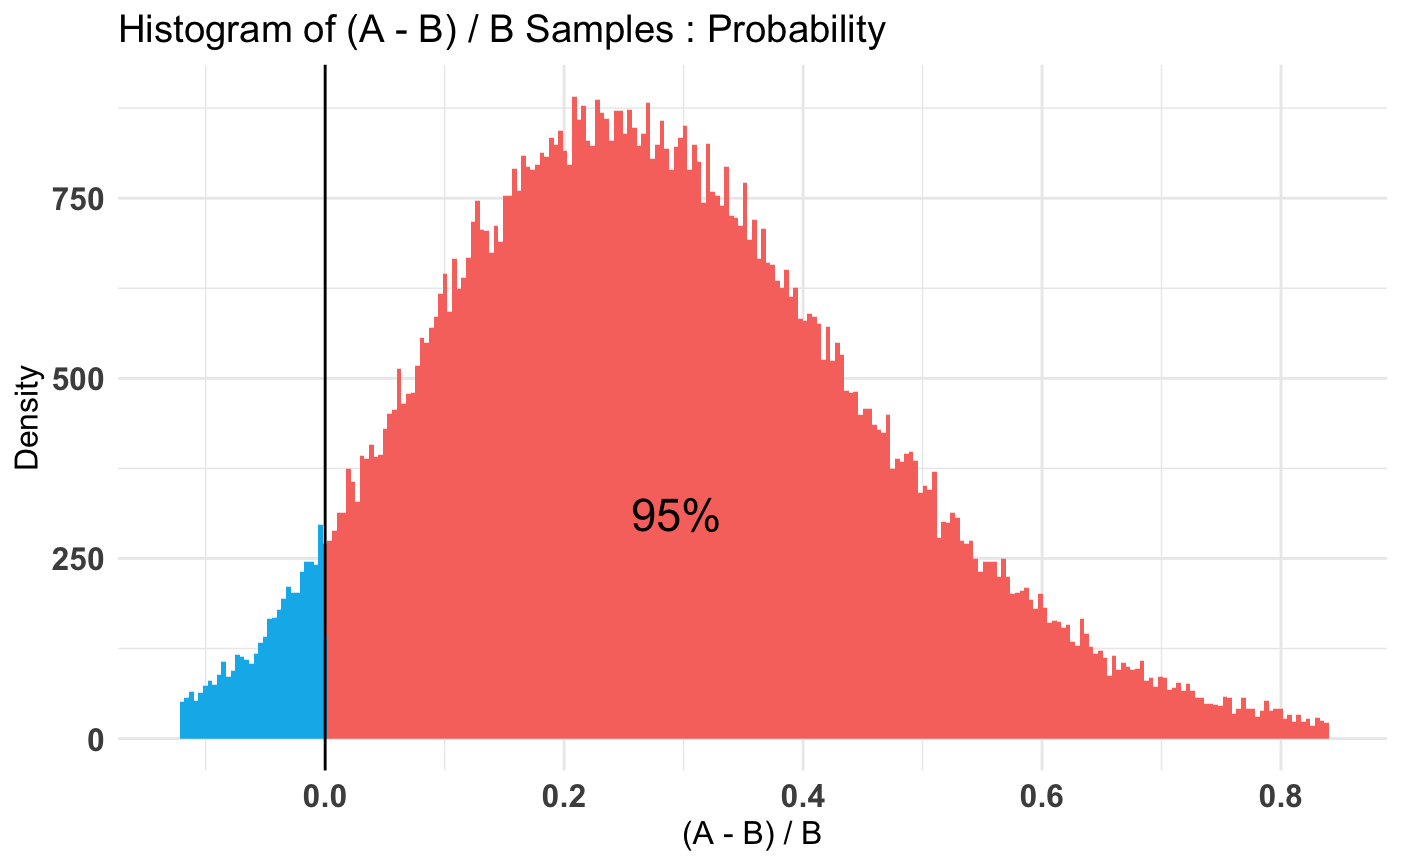
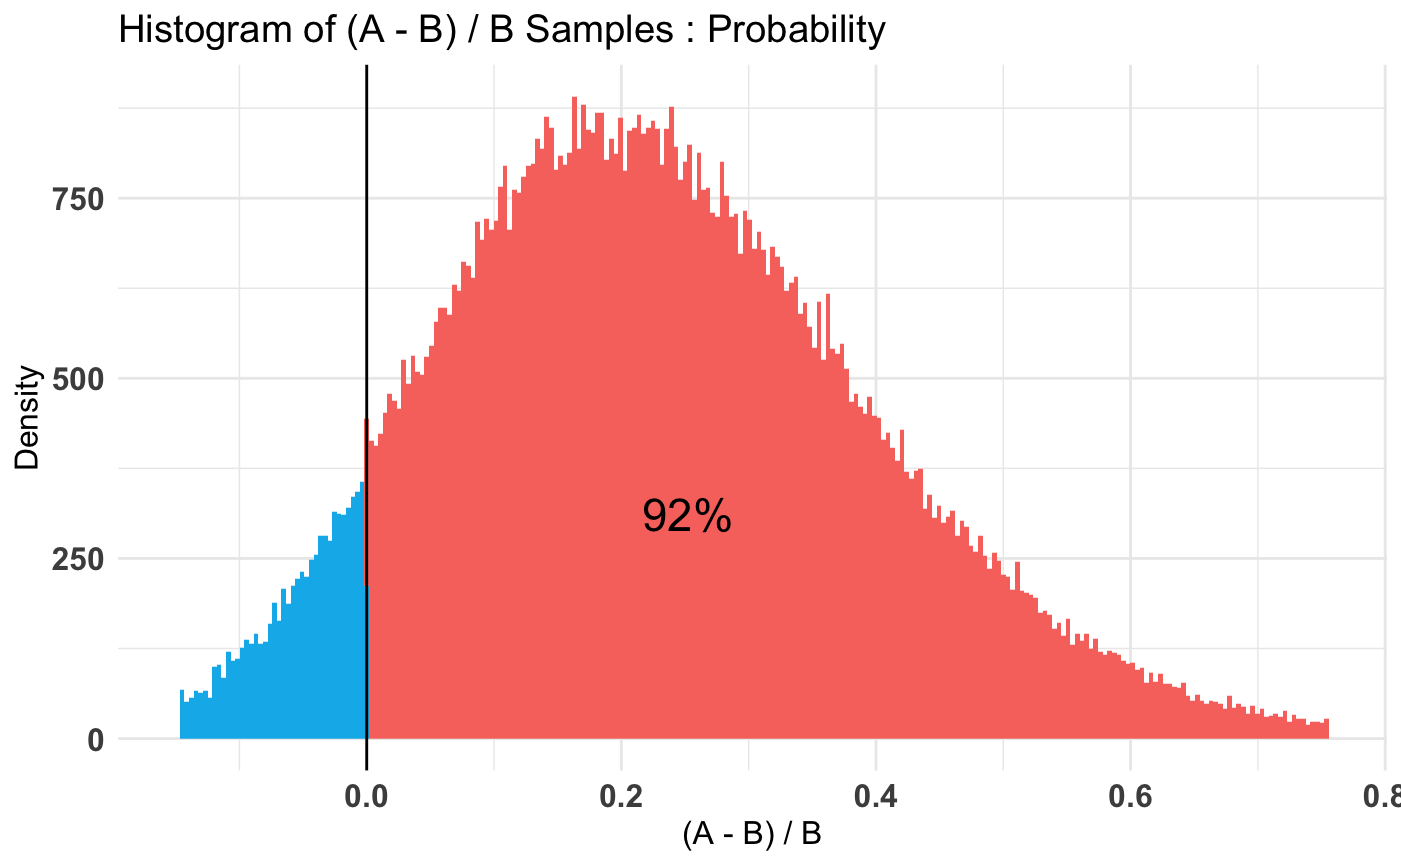
Site

diff --git a/docs/articles/introduction.html b/docs/articles/introduction.html
@@ -134,13 +134,13 @@
 ## Distribution used: bernoulli 
 ## --------------------------------------------
 ## Using data with the following properties: 
-##             A    B
-## Min.    0.000 0.00
-## 1st Qu. 0.000 0.00
-## Median  0.000 0.00
-## Mean    0.256 0.18
-## 3rd Qu. 1.000 0.00
-## Max.    1.000 1.00
+##             A     B
+## Min.    0.000 0.000
+## 1st Qu. 0.000 0.000
+## Median  0.000 0.000
+## Mean    0.264 0.248
+## 3rd Qu. 1.000 0.000
+## Max.    1.000 1.000
 ## --------------------------------------------
 ## Conjugate Prior Distribution: Beta 
 ## Conjugate Prior Parameters: 
@@ -162,11 +162,11 @@
 ## $Probability
 ## $Probability$A
 ##        0%       25%       50%       75%      100% 
-## 0.1759566 0.2373865 0.2501217 0.2630968 0.3531991 
+## 0.1800473 0.2412950 0.2540387 0.2670910 0.3409753 
 ## 
 ## $Probability$B
 ##        0%       25%       50%       75%      100% 
-## 0.1444721 0.2012199 0.2132452 0.2254698 0.3012037 
+## 0.1767633 0.2336161 0.2463689 0.2593703 0.3327495 
 ## 
 ## 
 ## --------------------------------------------
@@ -174,22 +174,22 @@
 ## P(A &gt; B) by (0)%: 
 ## 
 ## $Probability
-## [1] 0.9202
+## [1] 0.61298
 ## 
 ## --------------------------------------------
 ## 
 ## Credible Interval on (A - B) / B for interval length(s) (0.9) : 
 ## 
 ## $Probability
-##          5%         95% 
-## -0.02695294  0.41732241 
+##         5%        95% 
+## -0.1360307  0.2335515 
 ## 
 ## --------------------------------------------
 ## 
 ## Posterior Expected Loss for choosing B over A:
 ## 
 ## $Probability
-## [1] 0.004306333</code></pre>
+## [1] 0.03114722</code></pre>
 <div class="sourceCode" id="cb9"><pre class="sourceCode r"><code class="sourceCode r"><a class="sourceLine" id="cb9-1" data-line-number="1"><span class="kw"><a href="https://www.rdocumentation.org/packages/graphics/topics/plot">plot</a></span>(AB1)</a></code></pre></div>
 <p><img src="introduction_files/figure-html/unnamed-chunk-4-1.png" width="700.8"><img src="introduction_files/figure-html/unnamed-chunk-4-2.png" width="700.8"><img src="introduction_files/figure-html/unnamed-chunk-4-3.png" width="700.8"></p>
 <p><code>print</code> talks about the inputs to the test, <code>summary</code> will do a P((A - B) / B &gt; percentLift) and credible interval on (A - B) / B calculation, and <code>plot</code> will plot the priors, posteriors, and the Monte Carlo ‘integrated’ samples.</p>
@@ -212,12 +212,12 @@
 ## --------------------------------------------
 ## Using data with the following properties: 
 ##              A      B
-## Min.     0.000  0.000
-## 1st Qu.  5.000  4.000
-## Median   6.000  6.000
-## Mean     6.608  5.612
+## Min.     1.000  1.000
+## 1st Qu.  4.000  4.000
+## Median   6.000  5.000
+## Mean     6.296  5.592
 ## 3rd Qu.  8.000  7.000
-## Max.    15.000 12.000
+## Max.    14.000 14.000
 ## --------------------------------------------
 ## Conjugate Prior Distribution: Gamma 
 ## Conjugate Prior Parameters: 
@@ -239,11 +239,11 @@
 ## $Lambda
 ## $Lambda$A
 ##       0%      25%      50%      75%     100% 
-## 5.961310 6.486886 6.593909 6.702575 7.285747 
+## 5.617590 6.183904 6.289262 6.395405 7.006690 
 ## 
 ## $Lambda$B
 ##       0%      25%      50%      75%     100% 
-## 5.018851 5.518862 5.618575 5.720510 6.357439 
+## 4.954419 5.499291 5.598951 5.699240 6.442674 
 ## 
 ## 
 ## --------------------------------------------
@@ -251,22 +251,22 @@
 ## P(A &gt; B) by (0)%: 
 ## 
 ## $Lambda
-## [1] 1
+## [1] 0.9994
 ## 
 ## --------------------------------------------
 ## 
 ## Credible Interval on (A - B) / B for interval length(s) (0.9) : 
 ## 
 ## $Lambda
-##        5%       95% 
-## 0.1062497 0.2448029 
+##         5%        95% 
+## 0.05851637 0.19231519 
 ## 
 ## --------------------------------------------
 ## 
 ## Posterior Expected Loss for choosing B over A:
 ## 
 ## $Lambda
-## [1] 0</code></pre>
+## [1] 5.919709e-06</code></pre>
 <div class="sourceCode" id="cb15"><pre class="sourceCode r"><code class="sourceCode r"><a class="sourceLine" id="cb15-1" data-line-number="1"><span class="kw"><a href="https://www.rdocumentation.org/packages/graphics/topics/plot">plot</a></span>(AB2)</a></code></pre></div>
 <p><img src="introduction_files/figure-html/unnamed-chunk-6-1.png" width="700.8"><img src="introduction_files/figure-html/unnamed-chunk-6-2.png" width="700.8"><img src="introduction_files/figure-html/unnamed-chunk-6-3.png" width="700.8"></p>
 </div>
@@ -288,13 +288,13 @@
 ## Distribution used: combined 
 ## --------------------------------------------
 ## Using data with the following properties: 
-##             A      A    B      B
-## Min.    0.000  0.000 0.00  0.000
-## 1st Qu. 0.000  5.000 0.00  4.000
-## Median  0.000  6.000 0.00  6.000
-## Mean    0.256  6.608 0.18  5.612
-## 3rd Qu. 1.000  8.000 0.00  7.000
-## Max.    1.000 15.000 1.00 12.000
+##             A      A     B      B
+## Min.    0.000  1.000 0.000  1.000
+## 1st Qu. 0.000  4.000 0.000  4.000
+## Median  0.000  6.000 0.000  5.000
+## Mean    0.264  6.296 0.248  5.592
+## 3rd Qu. 1.000  8.000 0.000  7.000
+## Max.    1.000 14.000 1.000 14.000
 ## --------------------------------------------
 ## Conjugate Prior Distribution:  
 ## Conjugate Prior Parameters: 
@@ -311,11 +311,11 @@
 ## $Expectation
 ## $Expectation$A
 ##       0%      25%      50%      75%     100% 
-## 1.145981 1.561072 1.649445 1.739258 2.379020 
+## 1.082949 1.513345 1.597481 1.684152 2.188463 
 ## 
 ## $Expectation$B
-##        0%       25%       50%       75%      100% 
-## 0.7986352 1.1272984 1.1976034 1.2700320 1.7573540 
+##       0%      25%      50%      75%     100% 
+## 0.971017 1.304221 1.379182 1.455722 1.925366 
 ## 
 ## 
 ## --------------------------------------------
@@ -323,22 +323,22 @@
 ## P(A &gt; B) by (0)%: 
 ## 
 ## $Expectation
-## [1] 0.99599
+## [1] 0.90286
 ## 
 ## --------------------------------------------
 ## 
 ## Credible Interval on (A - B) / B for interval length(s) (0.9) : 
 ## 
 ## $Expectation
-##        5%       95% 
-## 0.1315679 0.6774352 
+##         5%        95% 
+## -0.0390819  0.3987103 
 ## 
 ## --------------------------------------------
 ## 
 ## Posterior Expected Loss for choosing B over A:
 ## 
 ## $Expectation
-## [1] 0.0001440658</code></pre>
+## [1] 0.005479544</code></pre>
 <div class="sourceCode" id="cb21"><pre class="sourceCode r"><code class="sourceCode r"><a class="sourceLine" id="cb21-1" data-line-number="1"><span class="kw"><a href="https://www.rdocumentation.org/packages/graphics/topics/plot">plot</a></span>(AB3)</a></code></pre></div>
 <p><img src="introduction_files/figure-html/unnamed-chunk-8-1.png" width="700.8"><img src="introduction_files/figure-html/unnamed-chunk-8-2.png" width="700.8"></p>
 </div>

diff --git a/docs/articles/extra/priors.html b/docs/articles/extra/priors.html
@@ -154,11 +154,11 @@
 <a class="sourceLine" id="cb2-26" data-line-number="26">out_diffuse &lt;-<span class="st"> </span><span class="kw"><a href="https://www.rdocumentation.org/packages/base/topics/ifelse">ifelse</a></span>(out_diffuse <span class="op">&lt;=</span><span class="st"> </span><span class="fl">0.05</span> <span class="op">|</span><span class="st"> </span>out_diffuse <span class="op">&gt;=</span><span class="st"> </span><span class="fl">.95</span>, <span class="dv">1</span>, <span class="dv">0</span>)</a></code></pre></div>
 <p>Now, A and B shouldn’t have any difference between the two but occasionally we will see a Type 1 error. That’s what the bottom 3 lines are doing. If P(A &gt; B) is &lt;=0.05 or &gt;= .95 we call one of the recipes “significantly” better. Observe what happens with each case of prior.</p>
 <div class="sourceCode" id="cb3"><pre class="sourceCode r"><code class="sourceCode r"><a class="sourceLine" id="cb3-1" data-line-number="1"><span class="kw"><a href="https://www.rdocumentation.org/packages/base/topics/mean">mean</a></span>(out_weaker_priors)</a></code></pre></div>
-<pre><code>## [1] 0.078</code></pre>
+<pre><code>## [1] 0.082</code></pre>
 <div class="sourceCode" id="cb5"><pre class="sourceCode r"><code class="sourceCode r"><a class="sourceLine" id="cb5-1" data-line-number="1"><span class="kw"><a href="https://www.rdocumentation.org/packages/base/topics/mean">mean</a></span>(out_stronger_priors)</a></code></pre></div>
-<pre><code>## [1] 0.022</code></pre>
+<pre><code>## [1] 0.018</code></pre>
 <div class="sourceCode" id="cb7"><pre class="sourceCode r"><code class="sourceCode r"><a class="sourceLine" id="cb7-1" data-line-number="1"><span class="kw"><a href="https://www.rdocumentation.org/packages/base/topics/mean">mean</a></span>(out_diffuse)</a></code></pre></div>
-<pre><code>## [1] 0.099</code></pre>
+<pre><code>## [1] 0.1</code></pre>
 <p>The diffuse priors have the most Type 1 errors, followed by the weak priors, followed by the strong priors; to be expected.</p>
 <p>Finally, we can fit another bayesTest (:D) to determine whether the differences between Type 1 error percents across priors are different from one another.</p>
 <div class="sourceCode" id="cb9"><pre class="sourceCode r"><code class="sourceCode r"><a class="sourceLine" id="cb9-1" data-line-number="1">t1 &lt;-<span class="st"> </span><span class="kw"><a href="../../reference/bayesTest.html">bayesTest</a></span>(out_diffuse, out_weaker_priors, <span class="dt">priors =</span> <span class="kw"><a href="https://www.rdocumentation.org/packages/base/topics/c">c</a></span>(<span class="st">'alpha'</span> =<span class="st"> </span><span class="dv">1</span>, <span class="st">'beta'</span> =<span class="st"> </span><span class="dv">1</span>), <span class="dt">distribution =</span> <span class="st">'bernoulli'</span>)</a>
@@ -176,11 +176,11 @@
 ## $Probability
 ## $Probability$A
 ##         0%        25%        50%        75%       100% 
-## 0.06516994 0.09329883 0.09955044 0.10602507 0.14532694 
+## 0.06686527 0.09426705 0.10051043 0.10705556 0.14435377 
 ## 
 ## $Probability$B
 ##         0%        25%        50%        75%       100% 
-## 0.04589421 0.07300396 0.07861334 0.08446485 0.11889303 
+## 0.05135635 0.07684274 0.08258698 0.08858263 0.12394182 
 ## 
 ## 
 ## --------------------------------------------
@@ -188,33 +188,33 @@
 ## P(A &gt; B) by (0)%: 
 ## 
 ## $Probability
-## [1] 0.95016
+## [1] 0.91956
 ## 
 ## --------------------------------------------
 ## 
 ## Credible Interval on (A - B) / B for interval length(s) (0.9) : 
 ## 
 ## $Probability
-##           5%          95% 
-## 0.0001473654 0.6074843630 
+##          5%         95% 
+## -0.03424719  0.53745999 
 ## 
 ## --------------------------------------------
 ## 
 ## Posterior Expected Loss for choosing B over A:
 ## 
 ## $Probability
-## [1] 0.003128456</code></pre>
+## [1] 0.005454061</code></pre>
 <div class="sourceCode" id="cb13"><pre class="sourceCode r"><code class="sourceCode r"><a class="sourceLine" id="cb13-1" data-line-number="1"><span class="kw"><a href="https://www.rdocumentation.org/packages/base/topics/summary">summary</a></span>(t2)</a></code></pre></div>
 <pre><code>## Quantiles of posteriors for A and B:
 ## 
 ## $Probability
 ## $Probability$A
-##         0%        25%        50%        75%       100% 
-## 0.06431220 0.09324035 0.09949420 0.10600358 0.14393722 
+##        0%       25%       50%       75%      100% 
+## 0.0643316 0.0941962 0.1005115 0.1070404 0.1484078 
 ## 
 ## $Probability$B
 ##          0%         25%         50%         75%        100% 
-## 0.007748307 0.019631230 0.022642918 0.025960903 0.050499510 
+## 0.006062974 0.015907039 0.018637114 0.021651891 0.044431093 
 ## 
 ## 
 ## --------------------------------------------
@@ -230,7 +230,7 @@
 ## 
 ## $Probability
 ##       5%      95% 
-## 2.061604 5.487234 
+## 2.667822 7.263698 
 ## 
 ## --------------------------------------------
 ## 

diff --git a/docs/reference/plot.bayesTest.html b/docs/reference/plot.bayesTest.html
@@ -177,9 +177,8 @@ modify it accordingly.</p>
 <span class='no'>AB1</span> <span class='kw'>&lt;-</span> <span class='fu'><a href='bayesTest.html'>bayesTest</a></span>(<span class='no'>A_pois</span>, <span class='no'>B_pois</span>, <span class='kw'>priors</span> <span class='kw'>=</span> <span class='fu'><a href='https://www.rdocumentation.org/packages/base/topics/c'>c</a></span>(<span class='st'>'shape'</span> <span class='kw'>=</span> <span class='fl'>25</span>, <span class='st'>'rate'</span> <span class='kw'>=</span> <span class='fl'>5</span>), <span class='kw'>distribution</span> <span class='kw'>=</span> <span class='st'>'poisson'</span>)
 
 <span class='fu'><a href='https://www.rdocumentation.org/packages/graphics/topics/plot'>plot</a></span>(<span class='no'>AB1</span>)</div><div class='img'><img src='plot.bayesTest-1.png' alt='' width='700' height='433' /></div><div class='img'><img src='plot.bayesTest-2.png' alt='' width='700' height='433' /></div><div class='img'><img src='plot.bayesTest-3.png' alt='' width='700' height='433' /></div><div class='input'><span class='fu'><a href='https://www.rdocumentation.org/packages/graphics/topics/plot'>plot</a></span>(<span class='no'>AB1</span>, <span class='kw'>percentLift</span> <span class='kw'>=</span> <span class='fl'>5</span>)</div><div class='img'><img src='plot.bayesTest-4.png' alt='' width='700' height='433' /></div><div class='img'><img src='plot.bayesTest-5.png' alt='' width='700' height='433' /></div><div class='img'><img src='plot.bayesTest-6.png' alt='' width='700' height='433' /></div><div class='input'>
-<span class='no'>p</span> <span class='kw'>&lt;-</span> <span class='fu'><a href='https://www.rdocumentation.org/packages/graphics/topics/plot'>plot</a></span>(<span class='no'>AB1</span>)
-
-<span class='no'>p</span>$<span class='no'>posteriors</span>$<span class='no'>Lambda</span></div><div class='img'><img src='plot.bayesTest-7.png' alt='' width='700' height='433' /></div><span class='co'># NOT RUN {</span>
+</div><div class='input'>    <span class='no'>p</span> <span class='kw'>&lt;-</span> <span class='fu'><a href='https://www.rdocumentation.org/packages/graphics/topics/plot'>plot</a></span>(<span class='no'>AB1</span>)
+    <span class='no'>p</span>$<span class='no'>posteriors</span>$<span class='no'>Lambda</span></div><div class='img'><img src='plot.bayesTest-7.png' alt='' width='700' height='433' /></div><span class='co'># NOT RUN {</span>
 <span class='no'>p</span>$<span class='no'>posteriors</span>$<span class='no'>Lambda</span> + <span class='fu'>ggtitle</span>(<span class='st'>'yolo'</span>) <span class='co'># modify ggplot2 object directly</span>
 <span class='co'># }</span><div class='input'>
 </div></pre>

diff --git a/docs/index.html b/docs/index.html
@@ -127,8 +127,8 @@
 <a href="#usage" class="anchor"></a>Usage</h2>
 <p>Some useful links from my blog with <code>bayesAB</code> examples (and pictures!!):</p>
 <ul>
-<li><a href="http://fportman.com/blog/bayesab-a-new-r-package-for-bayesian-ab-testing/">bayesAB: A New R Package for Bayesian AB Testing</a></li>
-<li><a href="http://fportman.com/blog/bayesab-0-dot-7-0-plus-a-primer-on-priors/">bayesAB 0.7.0 + a Primer on Priors</a></li>
+<li><a href="http://fportman.com/writing/bayesab-a-new-r-package-for-bayesian-ab-testing/">bayesAB: A New R Package for Bayesian AB Testing</a></li>
+<li><a href="http://fportman.com/writing/bayesab-0-dot-7-0-plus-a-primer-on-priors/">bayesAB 0.7.0 + a Primer on Priors</a></li>
 </ul>
 <p>For a more in-depth look please check the package vignettes with <code><a href="https://www.rdocumentation.org/packages/utils/topics/browseVignettes">browseVignettes(package = "bayesAB")</a></code> or the pre-knit HTML version on CRAN <a href="https://CRAN.R-project.org/package=bayesAB/vignettes/introduction.html">here</a>. Brief example below. Run the following code for a quick overview of bayesAB:</p>
 <div class="sourceCode" id="cb3"><pre class="sourceCode r"><code class="sourceCode r"><a class="sourceLine" id="cb3-1" data-line-number="1"><span class="kw"><a href="https://www.rdocumentation.org/packages/base/topics/library">library</a></span>(bayesAB)</a>
